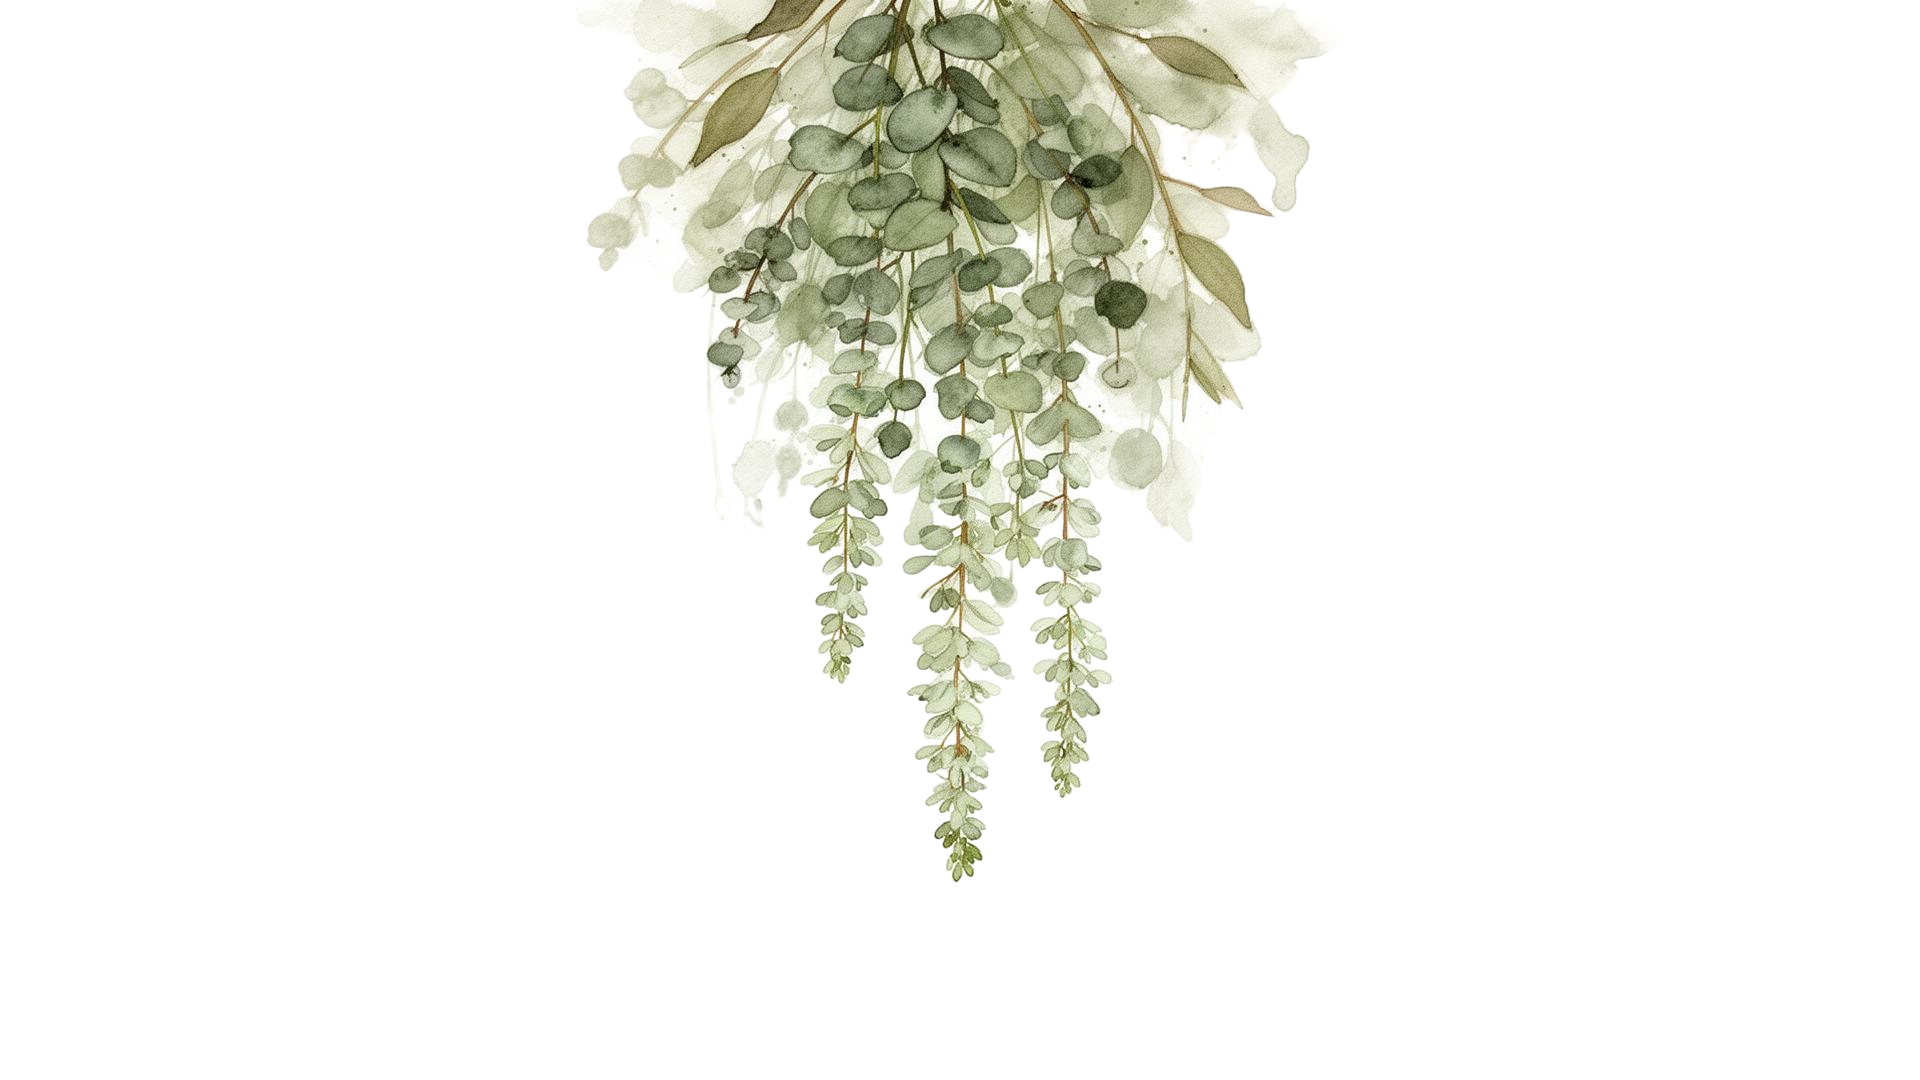
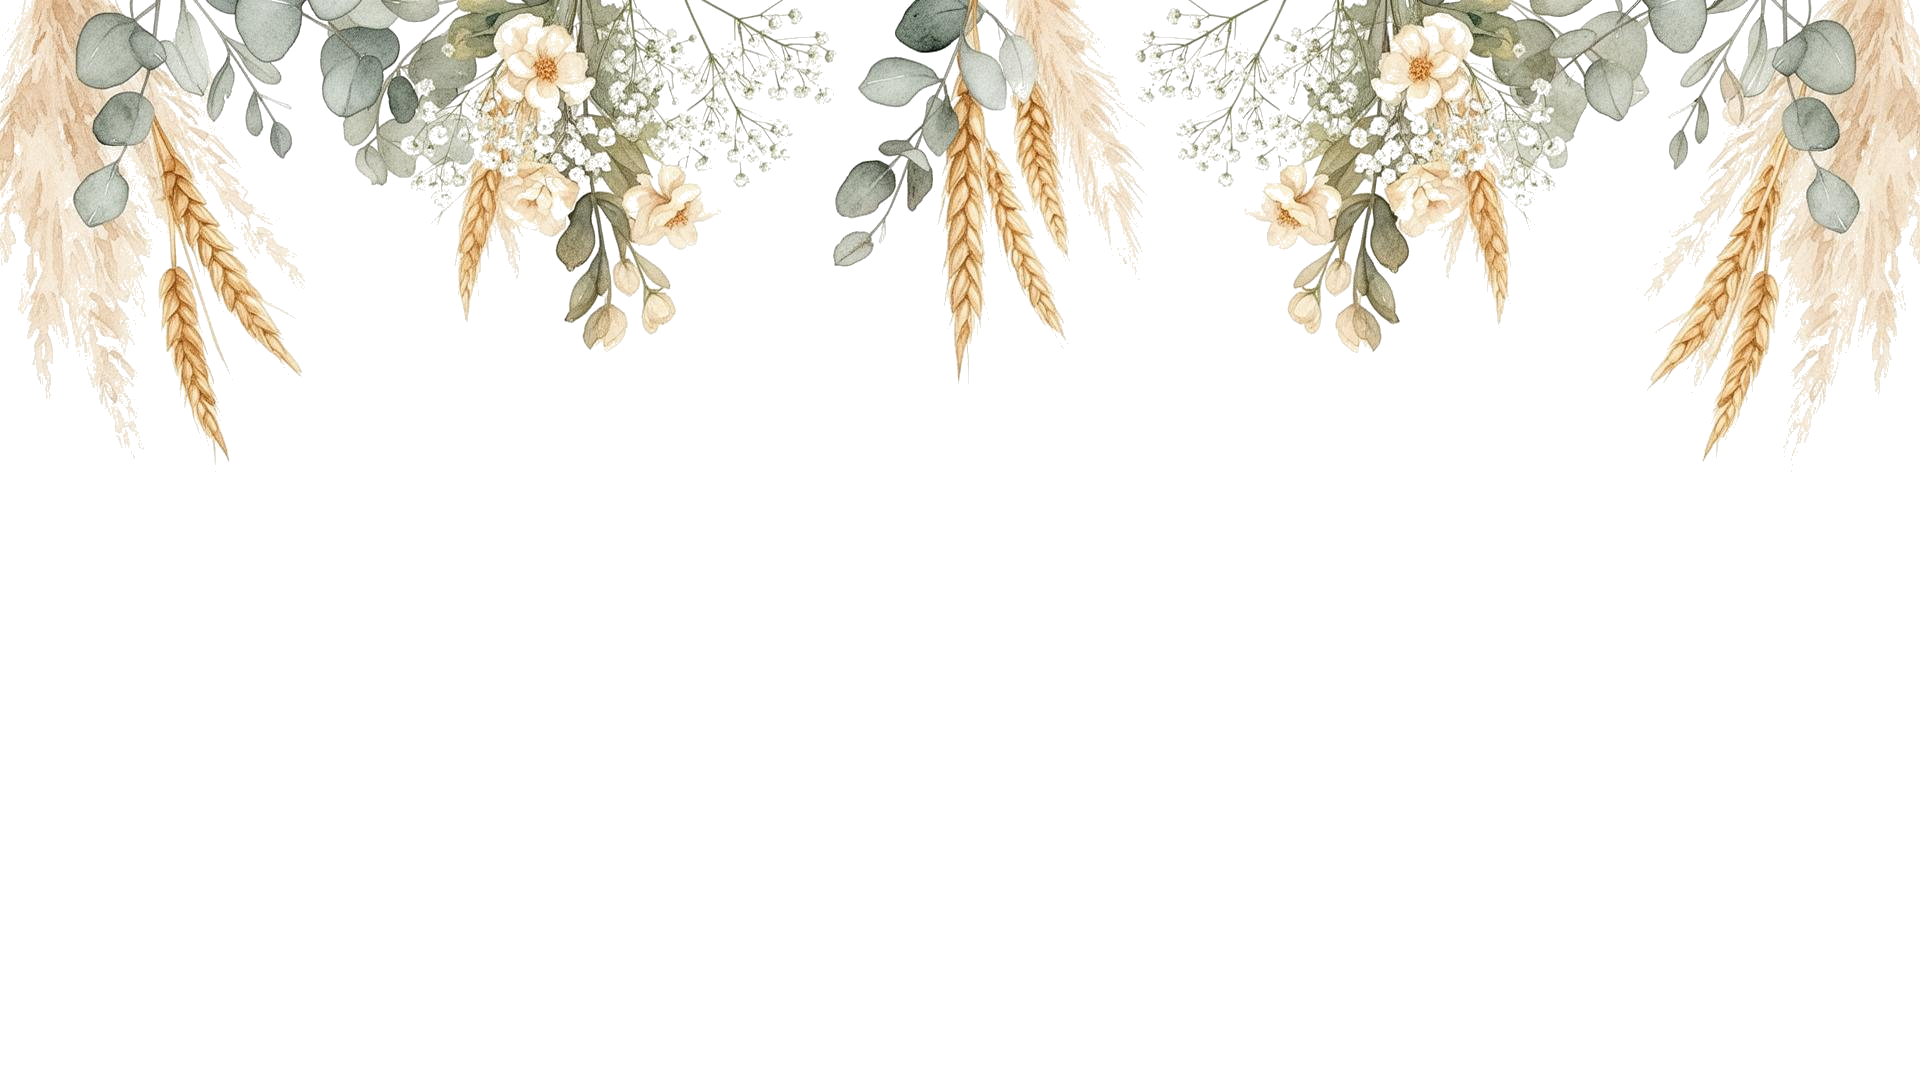
.

Changed region(s): [[0.0, 0.0, 1.0, 0.825]]

diff --git a/styles.css b/styles.css
@@ -7,6 +7,7 @@
 
 h1, h2, h3 {
   color: #1a2e4a;
+  font-family: "Dancing Script", cursive;
 }
 
 * {
@@ -68,7 +69,7 @@ body {
   justify-content: center;
   text-align: center;
   padding: 80px 24px;
-  background: #ffffff url('img/top_flower1.png') no-repeat top left;
+  background: #ffffff url('img/top_flower2.png') no-repeat top left;
   background-size: auto 340px;
   position: relative;
   overflow: hidden;
@@ -129,13 +130,13 @@ h1 {
 }
 
 .hero-text {
-  font-family: "Dancing Script", cursive;
-  font-weight: 600;
+  font-family: Arial, sans-serif;
+  font-weight: 400;
   margin: 6px auto 0;
-  font-size: 2.8rem;
+  font-size: 1.2rem;
   line-height: 1.5;
   max-width: 700px;
-  letter-spacing: 0.02em;
+  letter-spacing: 0.04em;
   color: #4d443d;
 }
 
@@ -185,7 +186,7 @@ h1 {
 
 .section h2 {
   margin-top: 0;
-  font-size: 2rem;
+  font-size: 2.8rem;
   font-weight: 700;
   display: inline-block;
   position: relative;

diff --git a/index.html b/index.html
@@ -30,8 +30,8 @@
 
       <section class="section section--navy">
       <div class="section-inner">
-        <h2>Mapa</h2>
-        <p>Svatba proběhne ve Spolku Sosak, v obci Sibřina, okres Praha-východ.</p>
+        <h2>Místo</h2>
+        <p>Svatba proběhne ve Spolku Sosák, obec Sibřina, okres Praha-východ.</p>
         <div class="map-wrapper">
           <iframe
             title="Google Mapa se značkou Spolek Sosak, Sibřina"
